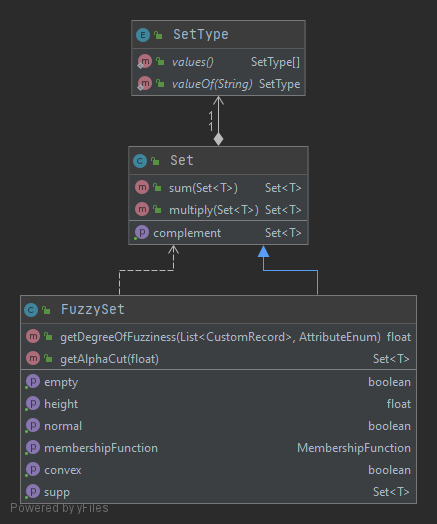
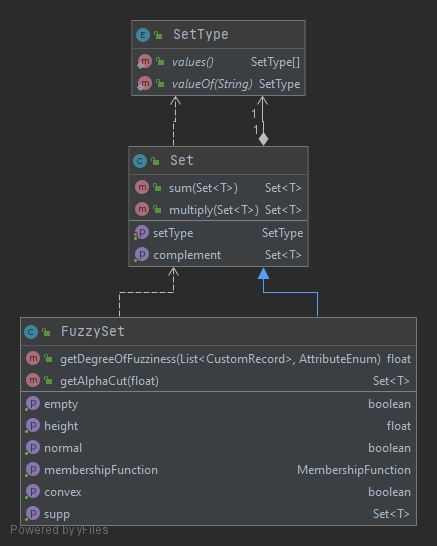
final uml

diff --git a/src/main/java/ksr/zad2/soft/set/Set.java b/src/main/java/ksr/zad2/soft/set/Set.java
@@ -28,4 +28,12 @@ public /*abstract*/ class Set<T> extends ArrayList<T> {
     public Set<T> getComplement() {
         return null;
     }
+
+    public ksr.zad2.soft.set.SetType getSetType() {
+        return SetType;
+    }
+
+    public void setSetType(ksr.zad2.soft.set.SetType setType) {
+        SetType = setType;
+    }
 }

diff --git a/src/main/java/ksr/zad2/soft/fuzzy/Quantifier.java b/src/main/java/ksr/zad2/soft/fuzzy/Quantifier.java
@@ -21,4 +21,12 @@ public class Quantifier<T> extends FuzzySet<T> {
     public String toString() {
         return quantifierName;
     }
+
+    public boolean isAbsolute() {
+        return isAbsolute;
+    }
+
+    public void setAbsolute(boolean absolute) {
+        isAbsolute = absolute;
+    }
 }
